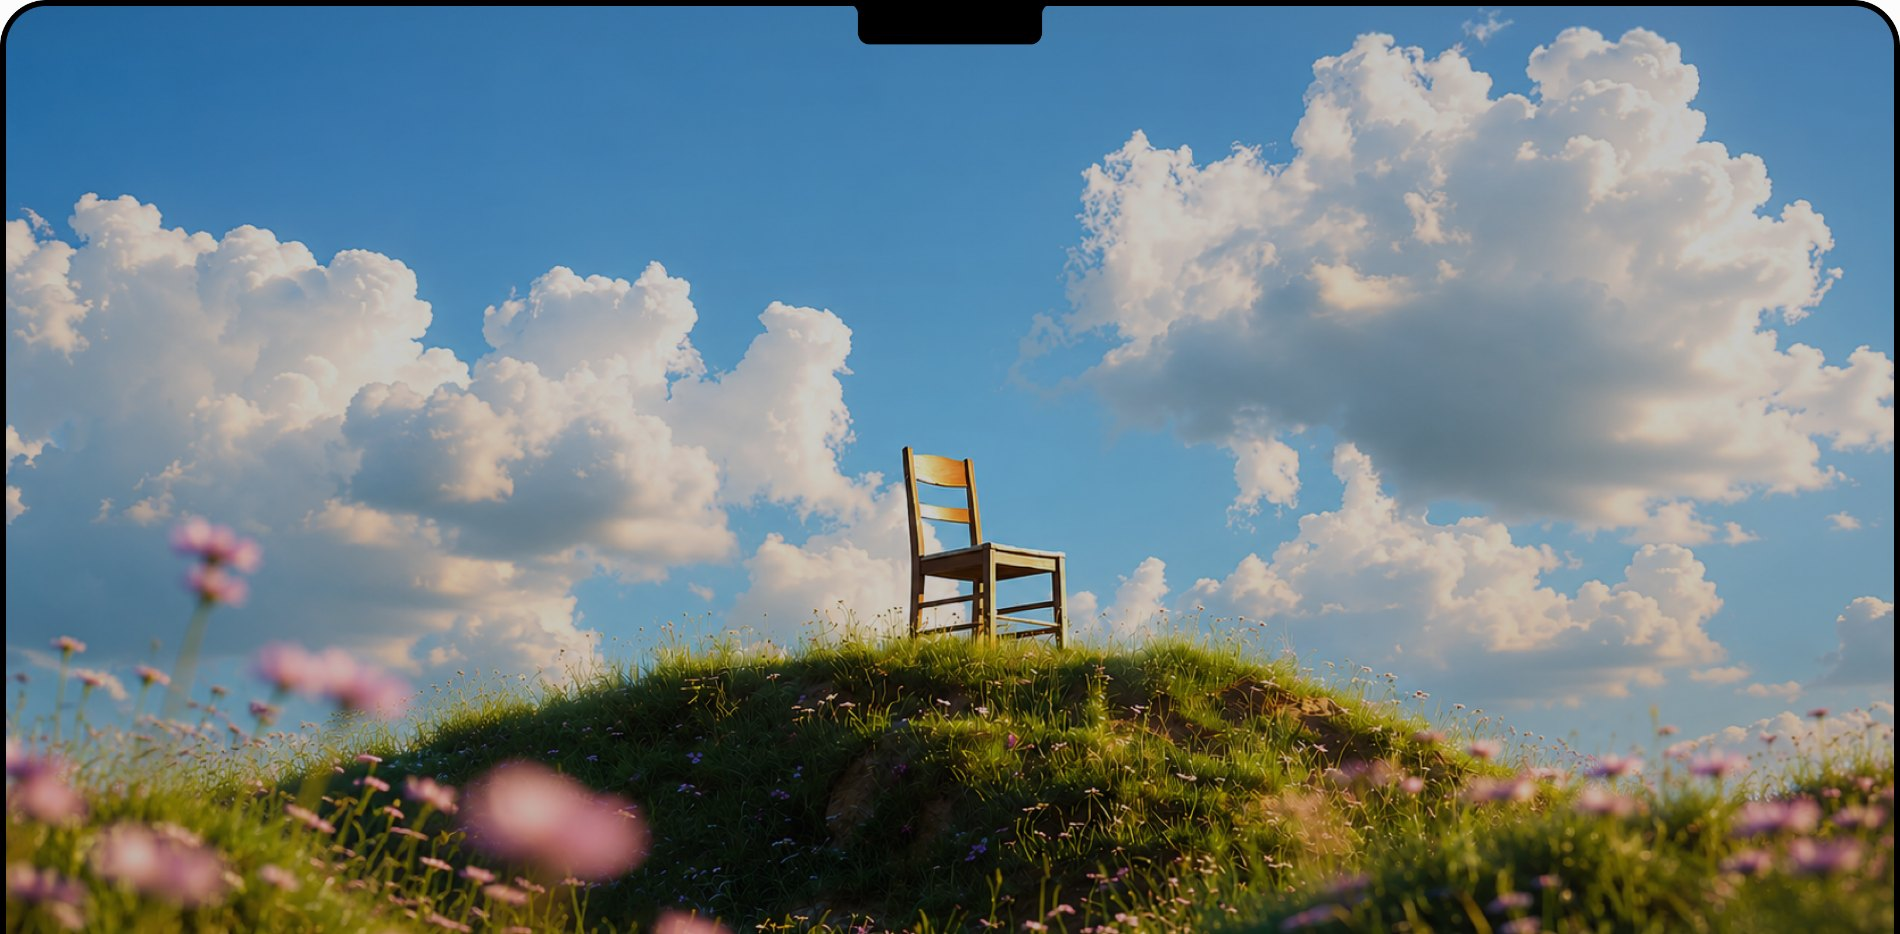
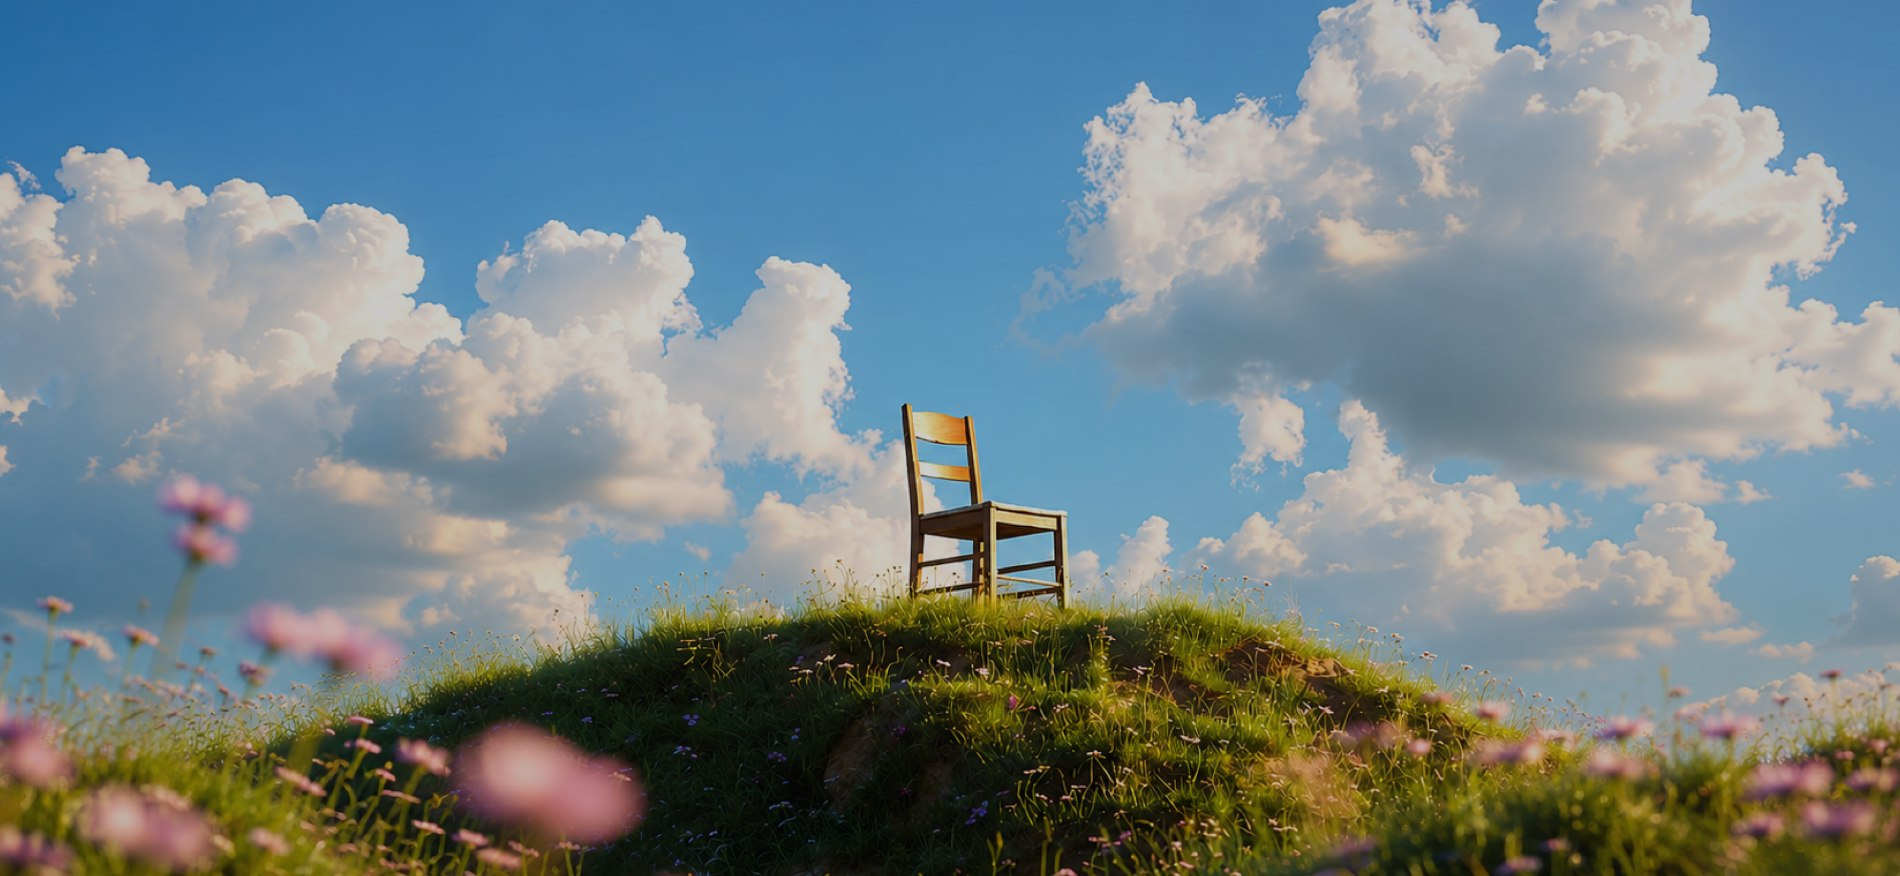
Rework projects: cropped-to-full device reveal, TrueDepth counter on right, spring life
Addresses the bridge.surf-style device feedback:
- Crop the baked bezel/notch out of the wallpaper; the device is now a
  real CSS frame so it can crop and reveal cleanly.
- Center the device and fit the full mockup within a 40px margin on every
  side (aspect-aware min sizing).
- Works one & two genie-minimize into the TrueDepth camera (count shown on
  the RIGHT of the housing, lens centered); work three flies in with a
  spring and STAYS on the desktop.
- After the works, the cropped/zoomed device springs out (easeOutBack) to
  reveal the full mockup — the 'cutout becomes full mockup' motion.
- Heading leads, then dissolves so the device becomes the hero, Apple-style.
- Genie target measured in unscaled offset space so it stays locked while
  the device zooms.

Claude-Session: https://claude.ai/code/session_01JoUk4xw6VwrYXbTPVhmKqf

diff --git a/src/components/ProjectsShowcase.jsx b/src/components/ProjectsShowcase.jsx
@@ -1,12 +1,16 @@
 import { useEffect, useRef } from 'react'
 import mockupScreen from '../assets/mockup-screen.jpg'
-import { useScrollProgress, subscribeScroll, seg, easeOut, easeInOut, clamp01, SPRING } from './motion'
+import { useScrollProgress, subscribeScroll, seg, easeOut, easeInOut, clamp01 } from './motion'
 
-/* My three most-loved works. Each appears as a window on the laptop
-   screen, then genie-minimizes up behind the top-center notch (macOS
-   minimize, into the notch). After each one lands, the Dynamic-Island
-   counter beside the notch pops and counts the collected works (1..3).
-   Placeholder content for now — swap the WORKS previews with real shots. */
+/* My three most-loved works, shown on a device that behaves like a real
+   Apple product page:
+   1. the device rises in, zoomed/cropped for an immersive feel;
+   2. works one & two genie-minimize up behind the TrueDepth camera, which
+      counts them on the right of the housing (1 → 2);
+   3. work three flies in with a spring and STAYS on the desktop (→ 3);
+   4. the cropped device springs out to reveal the full mockup, framed with
+      a 40px margin.
+   Placeholder work previews for now — swap with real shots later. */
 
 const WORKS = [
   {
@@ -15,6 +19,7 @@ const WORKS = [
     tag: 'Product Design',
     tint: 'linear-gradient(135deg, #eef2ff 0%, #e0e7ff 60%, #ede9fe 100%)',
     accent: '#4f46e5',
+    mode: 'genie',
   },
   {
     id: '02',
@@ -22,6 +27,7 @@ const WORKS = [
     tag: 'Systems',
     tint: 'linear-gradient(135deg, #ecfdf5 0%, #d1fae5 60%, #ccfbf1 100%)',
     accent: '#059669',
+    mode: 'genie',
   },
   {
     id: '03',
@@ -29,11 +35,17 @@ const WORKS = [
     tag: 'iOS · Product',
     tint: 'linear-gradient(135deg, #fff1f2 0%, #ffe4e6 60%, #ffedd5 100%)',
     accent: '#e11d48',
+    mode: 'stay',
   },
 ]
 
-/* genie silhouette: the window necks toward the top-center, curving in
-   like the macOS genie warp. pinch 0 = rectangle, 1 = pinched to a spout. */
+const ASPECT = 2.169 // mockup-screen.jpg width / height
+
+// spring-ish overshoot easings for the "alive" bounce
+const easeOutBack = (t, s = 1.70158) => 1 + (s + 1) * Math.pow(t - 1, 3) + s * Math.pow(t - 1, 2)
+
+/* genie silhouette: the window necks toward top-center like the macOS
+   genie warp. pinch 0 = rectangle, 1 = pinched to a spout. */
 function geniePolygon(pinch) {
   const N = 10
   const neck = (yf) => 50 * (1 - pinch * 0.95 * Math.pow(1 - yf, 2.2))
@@ -43,40 +55,15 @@ function geniePolygon(pinch) {
   return `polygon(${pts.map(([x, y]) => `${x.toFixed(2)}% ${y.toFixed(2)}%`).join(', ')})`
 }
 
-/* A polished placeholder project window: chrome bar + a faux app preview
-   (hero block, content rows) so it reads as a real work, not a blob. */
-function WorkWindow({ work, appearT, genieT, dy }) {
-  const pinch = easeOut(seg(genieT, 0, 0.55))
-  const rise = easeInOut(seg(genieT, 0.08, 1))
-  const squashY = 1 - 0.9 * rise
-  const squashX = 1 - 0.86 * rise
-  const fade = 1 - seg(genieT, 0.8, 1)
-  const inT = easeOut(appearT)
-
-  const style = {
-    opacity: Math.min(inT, fade),
-    clipPath: genieT > 0.001 ? geniePolygon(pinch) : undefined,
-    transform:
-      genieT > 0.001
-        ? `translateY(${rise * dy}px) scale(${squashX}, ${squashY})`
-        : `translateY(${(1 - inT) * 30}px) scale(${0.95 + inT * 0.05})`,
-    transformOrigin: 'center top',
-    willChange: genieT > 0.001 || inT < 1 ? 'transform, opacity, clip-path' : 'auto',
-  }
-
+function WorkCard({ work }) {
   return (
-    <div
-      className="absolute inset-0 overflow-hidden rounded-[18px] bg-white shadow-[0_30px_70px_-20px_rgba(0,0,0,0.4),0_0_0_1px_rgba(0,0,0,0.06)]"
-      style={style}
-    >
-      {/* window chrome */}
+    <div className="absolute inset-0 overflow-hidden rounded-[18px] bg-white shadow-[0_30px_70px_-20px_rgba(0,0,0,0.4),0_0_0_1px_rgba(0,0,0,0.06)]">
       <div className="flex h-9 items-center gap-1.5 border-b border-black/5 bg-[#f7f7f8] px-4">
         <span className="size-2.5 rounded-full bg-[#ff5f57]" />
         <span className="size-2.5 rounded-full bg-[#febc2e]" />
         <span className="size-2.5 rounded-full bg-[#28c840]" />
         <span className="ml-3 font-satoshi text-[12px] font-bold tracking-[-0.12px] text-black/45">{work.name}</span>
       </div>
-      {/* faux preview */}
       <div className="flex h-[calc(100%-36px)] flex-col p-5">
         <div className="relative flex-1 overflow-hidden rounded-xl" style={{ background: work.tint }}>
           <span
@@ -111,11 +98,51 @@ function WorkWindow({ work, appearT, genieT, dy }) {
   )
 }
 
+function GenieWindow({ work, appearT, genieT, dyLocal }) {
+  const pinch = easeOut(seg(genieT, 0, 0.55))
+  const rise = easeInOut(seg(genieT, 0.08, 1))
+  const squashY = 1 - 0.9 * rise
+  const squashX = 1 - 0.86 * rise
+  const opacity = Math.min(easeOut(appearT), 1 - seg(genieT, 0.82, 1))
+  if (opacity <= 0.001) return null
+  const style = {
+    opacity,
+    clipPath: genieT > 0.001 ? geniePolygon(pinch) : undefined,
+    transform:
+      genieT > 0.001
+        ? `translateY(${rise * dyLocal}px) scale(${squashX}, ${squashY})`
+        : `translateY(${(1 - easeOut(appearT)) * 30}px) scale(${0.95 + easeOut(appearT) * 0.05})`,
+    transformOrigin: 'center top',
+    willChange: 'transform, opacity, clip-path',
+  }
+  return (
+    <div className="absolute inset-0" style={style}>
+      <WorkCard work={work} />
+    </div>
+  )
+}
+
+function StayWindow({ work, arriveT }) {
+  if (arriveT <= 0.001) return null
+  // flies up from below and springs into place, then stays
+  const b = easeOutBack(clamp01(arriveT), 1.9)
+  const ty = (1 - b) * 120
+  const opacity = clamp01(arriveT * 2)
+  return (
+    <div
+      className="absolute inset-0"
+      style={{ opacity, transform: `translateY(${ty}px) scale(${0.96 + 0.04 * clamp01(arriveT * 1.4)})`, transformOrigin: 'center bottom', willChange: 'transform, opacity' }}
+    >
+      <WorkCard work={work} />
+    </div>
+  )
+}
+
 export default function ProjectsShowcase() {
   const wrapRef = useRef(null)
   const notchRef = useRef(null)
   const holderRef = useRef(null)
-  const geom = useRef({ dy: -360 })
+  const geom = useRef({ dy: -320 })
   const p = useScrollProgress(wrapRef)
 
   useEffect(() => {
@@ -123,51 +150,56 @@ export default function ProjectsShowcase() {
       const n = notchRef.current
       const h = holderRef.current
       if (!n || !h) return
-      const nr = n.getBoundingClientRect()
-      const hr = h.getBoundingClientRect()
-      if (hr.height > 0) geom.current.dy = nr.top + nr.height / 2 - hr.top
+      // measure in the device's own (unscaled) layout space via offsets so
+      // the genie target stays correct regardless of the device zoom scale
+      const dy = n.offsetTop + n.offsetHeight / 2 - h.offsetTop
+      if (Number.isFinite(dy)) geom.current.dy = dy
     })
   }, [])
 
-  const headT = easeOut(seg(p, 0.0, 0.14))
-  const deviceT = easeOut(seg(p, 0.05, 0.3))
+  // ── timeline ────────────────────────────────────────────────────────
+  const headT = easeOut(seg(p, 0.0, 0.12))
+  const enter = easeOut(seg(p, 0.04, 0.24)) // device rises + zooms in
 
-  // Phase 2 — works genie into the notch, one after another
-  const BASE = 0.34
-  const SPAN = 0.2
-  const phases = WORKS.map((_, i) => {
-    const w0 = BASE + i * SPAN
-    return {
-      appearT: i === 0 ? deviceT : easeOut(seg(p, w0 - 0.04, w0 + 0.02)),
-      genieT: easeInOut(seg(p, w0 + 0.06, w0 + SPAN - 0.02)),
-    }
-  })
-  const count = phases.filter((ph) => ph.genieT >= 1).length
-  const active = phases.findIndex((ph) => ph.genieT < 1)
+  const g0 = easeInOut(seg(p, 0.3, 0.44))
+  const a1 = easeOut(seg(p, 0.44, 0.5))
+  const g1 = easeInOut(seg(p, 0.5, 0.64))
+  const a2 = seg(p, 0.64, 0.78) // work three arrives and stays
 
+  const reveal = easeOutBack(seg(p, 0.82, 1.0), 1.5) // zoom-out to full mockup, bounce
+
+  const count = (g0 >= 1 ? 1 : 0) + (g1 >= 1 ? 1 : 0) + (a2 >= 0.85 ? 1 : 0)
+
+  // device zoom: enters to a cropped 1.28x, then springs back to a full-fit 1.0
+  const ZOOM = 1.28
+  const zoomIn = 0.92 + (ZOOM - 0.92) * enter
+  const scale = zoomIn * (1 - (1 - 1 / ZOOM) * reveal)
   const deviceStyle = {
-    transform: `translateY(${(1 - deviceT) * 240}px) scale(${0.9 + deviceT * 0.1})`,
-    opacity: Math.min(1, deviceT * 1.6),
-    filter: deviceT < 1 ? `blur(${(1 - deviceT) * 12}px)` : undefined,
-    transformOrigin: 'center top',
-    willChange: deviceT < 1 ? 'transform, opacity, filter' : 'auto',
+    transform: `translateY(${(1 - enter) * 160}px) scale(${scale})`,
+    opacity: Math.min(1, enter * 1.7),
+    filter: enter < 1 ? `blur(${(1 - enter) * 12}px)` : undefined,
+    transformOrigin: 'center center',
+    // fit the full mockup within a 40px margin on every side (aspect 2.169)
+    width: 'min(calc(100vw - 80px), calc((100vh - 80px) * 2.169), 1500px)',
+    willChange: 'transform, opacity, filter',
   }
 
+  // heading leads, then fades as the device becomes the hero
+  const headingOpacity = headT * (1 - clamp01(seg(p, 0.2, 0.34)))
+
   return (
-    <section ref={wrapRef} className="relative w-full" style={{ height: '380vh' }}>
-      <div className="sticky top-0 flex h-screen w-full flex-col items-center justify-start overflow-hidden pt-[86px]">
+    <section ref={wrapRef} className="relative w-full" style={{ height: '440vh' }}>
+      <div className="sticky top-0 flex h-screen w-full items-center justify-center overflow-hidden">
+        {/* heading leads the section, then dissolves as the device takes over */}
         <div
-          className="flex max-w-[445px] flex-col items-center text-center"
-          style={
-            headT < 1
-              ? {
-                  opacity: headT,
-                  transform: `translateY(${(1 - headT) * 30}px)`,
-                  filter: `blur(${(1 - headT) * 8}px)`,
-                  willChange: 'transform, opacity, filter',
-                }
-              : undefined
-          }
+          className="absolute left-1/2 top-[74px] z-10 flex max-w-[445px] -translate-x-1/2 flex-col items-center text-center"
+          style={{
+            opacity: headingOpacity,
+            transform: headT < 1 ? `translateY(${(1 - headT) * 30}px)` : undefined,
+            filter: headT < 1 ? `blur(${(1 - headT) * 8}px)` : undefined,
+            pointerEvents: headingOpacity < 0.5 ? 'none' : undefined,
+            willChange: 'opacity',
+          }}
         >
           <h2 className="whitespace-nowrap font-display text-[32px] font-medium leading-[40px] tracking-[-0.2297px] text-[#202020]">
             Some of my most recent projects
@@ -183,59 +215,43 @@ export default function ProjectsShowcase() {
           </a>
         </div>
 
-        {/* Device mockup — fills the viewport with a 40px margin. Works
-            genie up behind the enlarged TrueDepth camera, which shows the
-            running count of collected works. */}
-        <div
-          className="relative mt-[22px]"
-          style={{
-            ...deviceStyle,
-            // 40px side margin, but never taller than the remaining viewport.
-            // 2.034 is the mockup's width/height aspect ratio.
-            width: 'min(calc(100vw - 80px), calc((100vh - 300px) * 2.034), 1500px)',
-          }}
-        >
+        <div className="relative" style={deviceStyle}>
           <div className="relative">
-            <img src={mockupScreen} alt="" className="block w-full select-none" draggable="false" />
+            <img src={mockupScreen} alt="" className="block w-full select-none rounded-[22px]" draggable="false" />
 
-            {/* Enlarged TrueDepth camera housing (replaces the baked notch);
-                sits above the windows so they slide behind it as they
-                minimize, and displays the collected-works count. */}
+            {/* TrueDepth camera housing — count on the right, lens centered */}
             <div
               ref={notchRef}
-              className="absolute left-1/2 top-0 z-30 flex h-[6.2%] min-h-[30px] w-[13.5%] min-w-[128px] -translate-x-1/2 items-center justify-center gap-[7px] rounded-b-[16px] bg-black px-3 shadow-[0_3px_12px_rgba(0,0,0,0.45)]"
+              className="absolute left-1/2 top-0 z-30 flex h-[6.4%] min-h-[32px] w-[15%] min-w-[150px] -translate-x-1/2 items-center rounded-b-[16px] bg-black pl-4 pr-3 shadow-[0_3px_14px_rgba(0,0,0,0.5)]"
             >
-              {/* camera lens */}
-              <span className="relative grid size-[13px] place-items-center rounded-full bg-[#0b0b12] ring-1 ring-white/10">
-                <span className="size-[5px] rounded-full bg-[#1a2b52]" />
-                <span className="absolute right-[3px] top-[2.5px] size-[2px] rounded-full bg-[#4a6fd8]/80" />
+              {/* camera lens (centered) */}
+              <span className="absolute left-1/2 top-1/2 grid size-[13px] -translate-x-1/2 -translate-y-1/2 place-items-center rounded-full bg-[#0b0b12] ring-1 ring-white/10">
+                <span className="size-[5px] rounded-full bg-[#16224a]" />
+                <span className="absolute right-[3px] top-[2.5px] size-[2px] rounded-full bg-[#5f83e6]" />
               </span>
-              {/* running work count */}
+              {/* running count, pushed to the right */}
               <span
                 key={count}
-                className={`flex items-baseline gap-[3px] ${count > 0 ? 'island-pop' : ''}`}
-                style={{ opacity: count > 0 ? 1 : 0.35, transition: 'opacity 240ms ease' }}
+                className={`ml-auto flex items-baseline gap-[3px] ${count > 0 ? 'island-pop' : ''}`}
+                style={{ opacity: count > 0 ? 1 : 0.3, transition: 'opacity 220ms ease' }}
                 aria-live="polite"
-                aria-label={`${count} of ${WORKS.length} works collected`}
+                aria-label={`${count} of ${WORKS.length} works`}
               >
                 <span
-                  className="font-satoshi text-[15px] font-bold leading-none text-white"
+                  className="font-satoshi text-[16px] font-bold leading-none"
                   style={{ color: count > 0 ? WORKS[Math.min(count, WORKS.length) - 1].accent : '#fff' }}
                 >
                   {count}
                 </span>
-                <span className="font-satoshi text-[11px] font-bold leading-none text-white/55">/{WORKS.length}</span>
+                <span className="font-satoshi text-[11px] font-bold leading-none text-white/50">/{WORKS.length}</span>
               </span>
             </div>
 
-            {/* work windows layered over the screen (centered, not full-bleed) */}
-            <div ref={holderRef} className="absolute left-1/2 top-[13%] z-20 h-[60%] w-[38%] -translate-x-1/2">
-              {WORKS.map((w, i) => {
-                if (active === -1 ? i !== WORKS.length - 1 : i > active) return null
-                if (active !== -1 && i < active) return null
-                const ph = phases[i]
-                return <WorkWindow key={w.id} work={w} appearT={ph.appearT} genieT={ph.genieT} dy={geom.current.dy} />
-              })}
+            {/* work windows over the desktop */}
+            <div ref={holderRef} className="absolute left-1/2 top-[13%] z-20 h-[58%] w-[38%] -translate-x-1/2">
+              <GenieWindow work={WORKS[0]} appearT={enter} genieT={g0} dyLocal={geom.current.dy} />
+              <GenieWindow work={WORKS[1]} appearT={a1} genieT={g1} dyLocal={geom.current.dy} />
+              <StayWindow work={WORKS[2]} arriveT={a2} />
             </div>
           </div>
         </div>